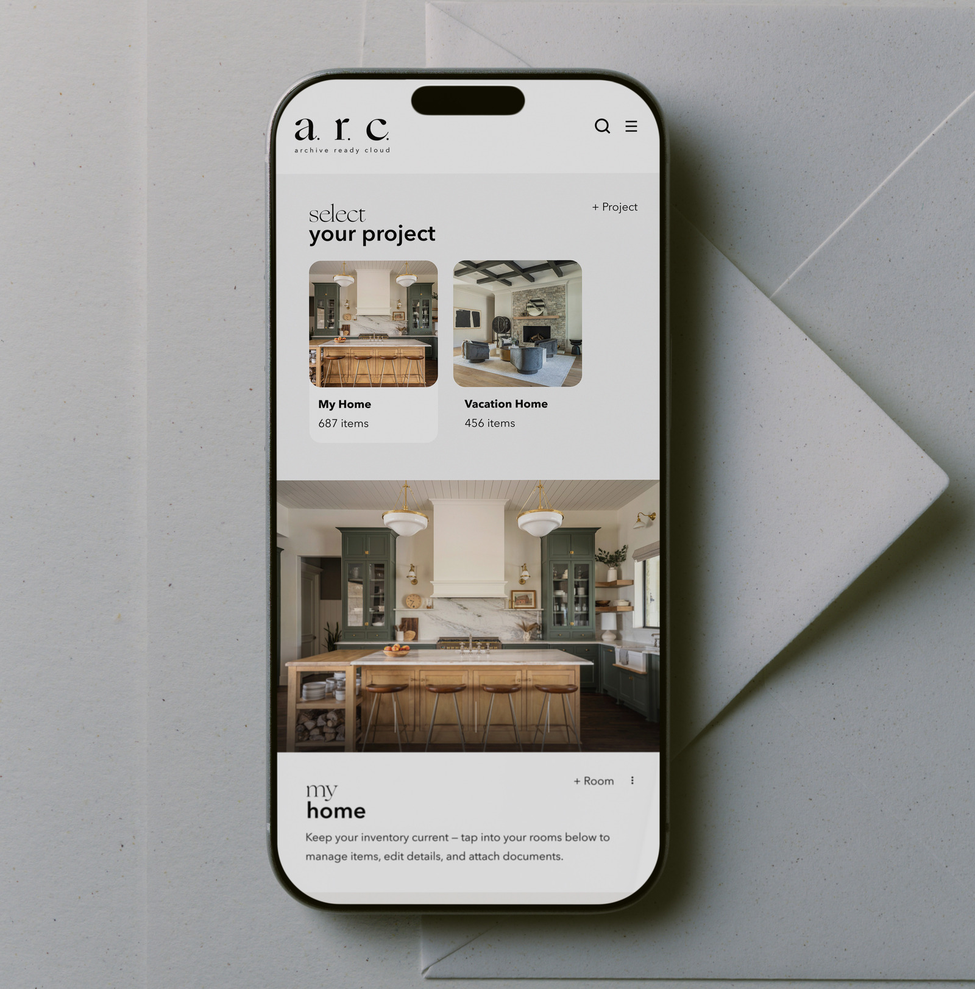
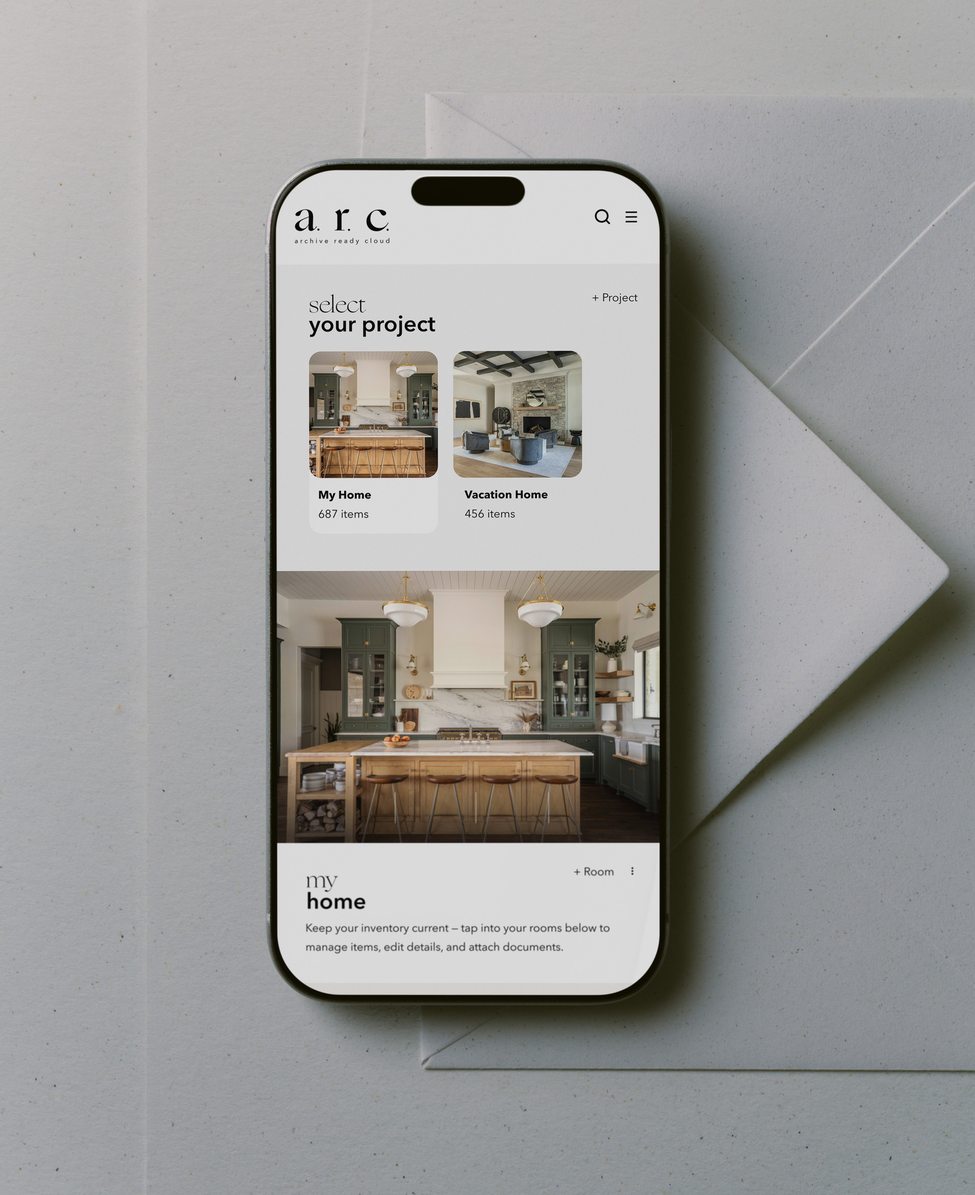
A.R.C. tile: the resave, with room to travel
3840x4705 in, 1600x1960 out, 3215K to 599K.

The vertical is what needed fixing and it is fixed: the phone is 72% of
the canvas with 13.6% above and 14.0% below, against a window that is
86% tall and moving. It rides the whole slide without touching either
end now, where before it was 87% tall inside that same window and
clipped at both.

Width sits clear on its own — the phone is centred with about 27% and
31% either side, well outside the 6.9% the crop takes, so no authored
drift here.

A correction to what I told Jeremy: I reported the right margin as 1.8%
and asked him to re-centre. That was my threshold detector catching the
envelope's diagonal shadow, not the phone. The phone was centred both
times and only the height ever needed the extra room.

diff --git a/src/components/home/pressingHomeDriver.js b/src/components/home/pressingHomeDriver.js
@@ -39,7 +39,7 @@ export function initPressingHome() {
 const WORK = [
   ["Sally Marketing OS", "Product design, engineering", "/case-studies/sally", "/case-studies/hp/rhs-sally-os-asset-hub-laptop.jpg", 1920, 1254, "sally os platform hero", undefined, 4],
   ["Ivy Park by Beyoncé", "Digital design, brand launch", "/case-studies/ivy-park", "/case-studies/hp/rhs-ivy-park-beyonce-digital-brand-launch.jpg?v=3", 1120, 747, "ivy park nordstrom laptop brand experience mockup"],
-  ["A.R.C. - AI Home Inventory", "App & brand development", "/case-studies/arc", "/case-studies/hp/rhs-arc-app-project-select-phone.jpg", 1600, 1622, "arc app kitchen project selection lifestyle"],
+  ["A.R.C. - AI Home Inventory", "App & brand development", "/case-studies/arc", "/case-studies/hp/rhs-arc-app-project-select-phone.jpg", 1600, 1960, "arc app kitchen project selection lifestyle"],
   ["Hill Country home", "Interior design, kitchen", "/case-studies/hill-country-kitchen", "/case-studies/hp/rhs-interior-design-kitchen-modern-meets-vintage.jpg?v=3", 1920, 1280, "hill country kitchen island pendants marble wide", 0.64],
   ["Robert Rodriguez x Neiman’s", "Creative direction, design", "/case-studies/robert-rodriguez", "/case-studies/hp/rhs-robert-rodriguez-storefront-window.jpg", 1962, 1600, "neiman marcus robert rodriguez woman cream polka dot dress pink blazer orange yellow backdrop storefront window display campaign", undefined, 4],
   /* Authored at 0.86 rather than dealt: the seed handed this one the

diff --git a/src/data/image-dimensions.ts b/src/data/image-dimensions.ts
@@ -292,7 +292,7 @@ export const imageDimensions: Record<string, [number, number]> = {
   "/case-studies/hill-country-oak/hill-country-oakworks-typography-oak-barrels-master-craft-heritage-whiskey-orange-cream-tagline.jpg": [1524, 1532],
   "/case-studies/hill-country-oak/hill-country-oakworks-wordmark-yellow-on-orange-color-block.jpg": [1530, 1530],
   "/case-studies/hp/rhs-arc-ai-home-inventory-app-thumbnail.jpg": [1920, 1280],
-  "/case-studies/hp/rhs-arc-app-project-select-phone.jpg": [1600, 1622],
+  "/case-studies/hp/rhs-arc-app-project-select-phone.jpg": [1600, 1960],
   "/case-studies/hp/rhs-campaign-design-amber-shockey-pattern-dishware.jpg": [1920, 1280],
   "/case-studies/hp/rhs-campaign-design-amber-shockey-blue-plate.jpg": [1920, 1154],
   "/case-studies/hp/rhs-campaign-design-j-christianson-branding.jpg": [1920, 1280],
